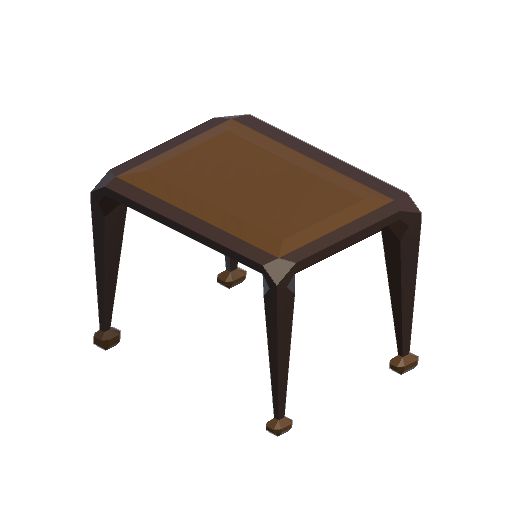
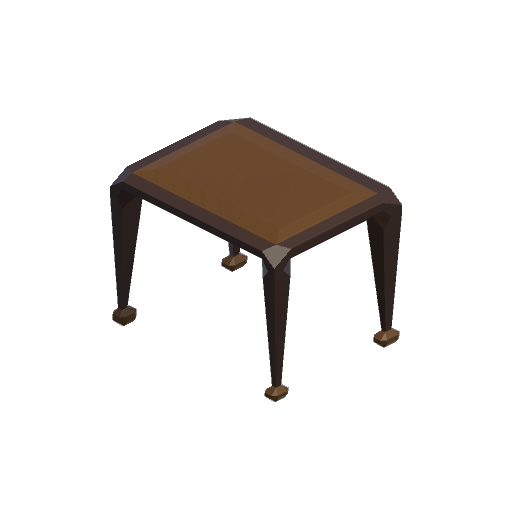
Improved Model Sprite Generator

diff --git a/REPOnt/Assets/Scripts/Props/PropSpriteGenerator.cs b/REPOnt/Assets/Scripts/Props/PropSpriteGenerator.cs
@@ -18,7 +18,7 @@ namespace Props
             RenderTexture rt = new RenderTexture(resolution.x, resolution.y, 24);
             renderCamera.targetTexture = rt;
             renderCamera.clearFlags = CameraClearFlags.SolidColor;
-            renderCamera.backgroundColor = new Color(0, 0, 0, 0); // Fondo transparente
+            renderCamera.backgroundColor = new Color(0, 0, 0, 0); // Transparente
 
             if (!Directory.Exists(outputFolder))
                 Directory.CreateDirectory(outputFolder);
@@ -26,8 +26,17 @@ namespace Props
             foreach (GameObject prefab in propsToRender)
             {
                 GameObject instance = Instantiate(prefab, spawnPoint.position, spawnPoint.rotation, spawnPoint);
-                instance.transform.localPosition = Vector3.zero;
                 instance.transform.localScale = Vector3.one;
+
+                Renderer renderer = instance.GetComponentInChildren<Renderer>();
+                if (renderer != null)
+                {
+                    Vector3 offset = renderer.bounds.center - spawnPoint.position;
+                    instance.transform.position -= offset;
+
+                    float maxExtent = Mathf.Max(renderer.bounds.extents.x, renderer.bounds.extents.y, renderer.bounds.extents.z);
+                    renderCamera.orthographicSize = maxExtent * 1.5f;
+                }
 
                 renderCamera.Render();
 
